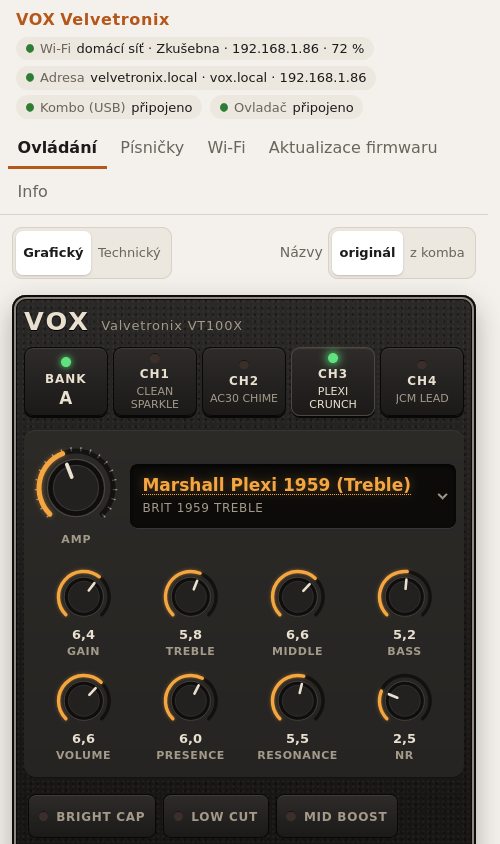
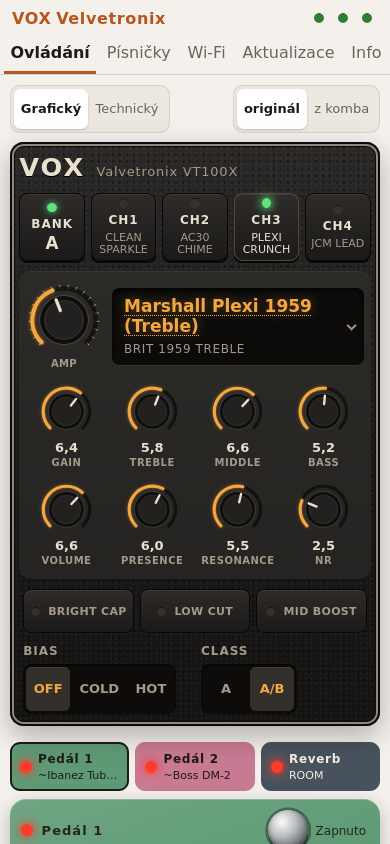
feat(web): phone layout, one pedal at a time behind tabs, 0.4.7
Under 700 px: brand and status dots in one line, tabs in one
scrollable line, compact amp panel with the three latches in one row,
pedals behind Pedál 1 / Pedál 2 / Reverb tabs that show on/off and the
type, footswitch beside the slot name, stacked save form. The graphic
view on a 390 px phone is 1426 px tall instead of 2608.

diff --git a/web/src/styles.css b/web/src/styles.css
@@ -668,6 +668,67 @@ details summary { cursor: pointer; color: var(--accent); margin-top: 0.5rem; }
   .knobrow { grid-template-columns: repeat(8, minmax(0, 1fr)); }
 }
 
+/* Pedal tabs exist for phones only. */
+.pedal-tabs { display: none; }
+
+/* --- phone (under 700 px): short header, one pedal at a time, compact panel --- */
+@media (max-width: 699px) {
+  .top { display: flex; align-items: center; justify-content: space-between; gap: 0.5rem; padding: 0.4rem 0.75rem 0.25rem; padding-top: max(0.4rem, env(safe-area-inset-top)); }
+  .brand { margin: 0; }
+  .top .statusbar { display: flex; flex-direction: column; align-items: flex-end; min-width: 0; }
+  .top .chips { flex-wrap: nowrap; gap: 0.15rem; }
+  .top .chip-value, .top .chip-addr, .top .chip-more { display: none; }
+  .top .chip-title { position: absolute; width: 1px; height: 1px; overflow: hidden; clip-path: inset(50%); }
+  .top .chip { padding: 0.35rem; background: transparent; }
+  .top .dot { width: 0.65rem; height: 0.65rem; }
+  .tabs { flex-wrap: nowrap; overflow-x: auto; scrollbar-width: none; padding: 0 0.25rem; }
+  .tab { padding: 0.45rem 0.4rem; }
+  .tab-more { display: none; }
+  main { padding: 0.6rem 0.6rem 1rem; }
+  .screen { gap: 0.6rem; }
+
+  .screen-control .toolbar .seg-label { position: absolute; width: 1px; height: 1px; overflow: hidden; clip-path: inset(50%); }
+  .toolbar .seg-btn { min-height: 2.5rem; }
+
+  .amp-panel { padding: 0.75rem 0.6rem 0.8rem; }
+  .panel-body { margin-top: 0.6rem; padding: 0.6rem 0.4rem; gap: 0.6rem; }
+  .knob { --k: 3.3rem; }
+  .knob-lg { --k: 4.5rem; }
+  .knob-sm { --k: 2.9rem; }
+  /* The three latches in one row, BIAS and CLASS in the next. */
+  .valve { margin-top: 0.6rem; gap: 0.5rem 0.75rem; }
+  .valve .latches { display: grid; grid-template-columns: repeat(3, minmax(0, 1fr)); gap: 0.35rem; }
+  .valve .latch { justify-content: center; padding: 0.3rem 0.35rem; font-size: 0.6875rem; letter-spacing: 0.03em; white-space: nowrap; }
+
+  .pedal-tabs { display: grid; grid-template-columns: repeat(3, minmax(0, 1fr)); gap: 0.35rem; }
+  .pedal-tab {
+    --enc: #4a4743; --print: #f4ede0;
+    display: grid; grid-template-columns: auto 1fr; align-items: center; column-gap: 0.4rem;
+    min-height: 3rem; padding: 0.35rem 0.5rem; text-align: left;
+    border: 2px solid transparent; border-radius: 10px;
+    background: var(--enc); color: var(--print); font-family: var(--p-font);
+  }
+  .pedal-tab.ink-dark { --print: #1d1a16; }
+  .pedal-tab[aria-selected="true"] { border-color: var(--text); }
+  .pedal-tab .stomp-led { grid-row: span 2; }
+  .pedal-tab-name { font-size: 0.75rem; font-weight: 700; letter-spacing: 0.06em; }
+  .pedal-tab-type { font-family: system-ui, sans-serif; font-size: 0.6875rem; overflow: hidden; text-overflow: ellipsis; white-space: nowrap; }
+  .pedalboard { gap: 0.5rem; }
+  .pedalboard .stomp:not(.stomp-picked) { display: none; }
+  .stomp { gap: 0.5rem; padding: 0.6rem 0.7rem 0.75rem; }
+  .stomp-type { min-height: 2.9rem; }
+  .stomp-knobs { min-height: 0; gap: 0.2rem; }
+  /* The footswitch sits beside the slot name. */
+  .stomp-top { min-height: 2.75rem; padding-right: 7.5rem; }
+  .footswitch { position: absolute; top: 0.6rem; right: 0.7rem; grid-auto-flow: column; align-items: center; gap: 0.45rem; min-height: 2.75rem; padding: 0 0.2rem; }
+  .fs-cap { width: 2.5rem; height: 2.5rem; box-shadow: 0 0 0 3px rgb(0 0 0 / 0.35), 0 3px 0 rgb(0 0 0 / 0.45), inset 0 -2px 4px rgb(0 0 0 / 0.35); }
+
+  .save { padding: 0.75rem; }
+  .save h2 { margin: 0 0 0.25rem; font-size: 1.05rem; }
+  .save .row, .save .row:not(.slider) { grid-template-columns: 1fr; gap: 0.2rem; margin: 0.4rem 0; }
+  .save .primary { width: 100%; margin-top: 0.25rem; }
+}
+
 @media (prefers-reduced-motion: reduce) {
   .stomp, .fs-cap { transition: none; }
 }

diff --git a/web/src/ui/graphic.ts b/web/src/ui/graphic.ts
@@ -239,6 +239,10 @@ export function createGraphic(ctx: Ctx, edits: Edits): View {
     const params = h("div", { class: "stomp-knobs" });
     const fsLabel = h("span", { class: "fs-label" });
     const footswitch = h("button", { type: "button", class: "footswitch" }, h("span", { class: "fs-cap", "aria-hidden": "true" }), fsLabel);
+    // Phone: one pedal at a time, picked by these tabs (they also show on/off and the type).
+    const tabLed = h("span", { class: "stomp-led", "aria-hidden": "true" });
+    const tabType = h("span", { class: "pedal-tab-type" });
+    const tab = h("button", { type: "button", class: "pedal-tab", role: "tab" }, tabLed, h("span", { class: "pedal-tab-name" }, title), tabType);
     const box = h(
       "section",
       { class: "stomp", "aria-label": title },
@@ -252,6 +256,7 @@ export function createGraphic(ctx: Ctx, edits: Edits): View {
     const showOn = (v: boolean) => {
       isOn = v;
       box.classList.toggle("stomp-on", v);
+      tab.classList.toggle("stomp-on", v);
       footswitch.setAttribute("aria-pressed", String(v));
       setText(fsLabel, v ? "Zapnuto" : "Vypnuto");
       footswitch.setAttribute("aria-label", `${title}: ${v ? "zapnuto" : "vypnuto"}`);
@@ -276,6 +281,9 @@ export function createGraphic(ctx: Ctx, edits: Edits): View {
       const color = ENCLOSURE[slot][t] ?? "#4a4743";
       box.style.setProperty("--enc", color);
       box.classList.toggle("ink-dark", darkInk(color));
+      setText(tabType, main.text);
+      tab.style.setProperty("--enc", color);
+      tab.classList.toggle("ink-dark", darkInk(color));
       if (typeSel.value !== String(t)) typeSel.value = String(t);
     };
     typeSel.addEventListener("change", () => {
@@ -310,6 +318,7 @@ export function createGraphic(ctx: Ctx, edits: Edits): View {
 
     return {
       box,
+      tab,
       knobs: () => paramKnobs,
       set(p: Program) {
         const type = effectType(p, slot);
@@ -328,7 +337,15 @@ export function createGraphic(ctx: Ctx, edits: Edits): View {
       },
     };
   });
-  const board = h("div", { class: "pedalboard" }, ...stomps.map((s) => s.box));
+  const pick = (i: number) =>
+    stomps.forEach((s, j) => {
+      s.box.classList.toggle("stomp-picked", i === j);
+      s.tab.setAttribute("aria-selected", String(i === j));
+    });
+  stomps.forEach((s, i) => s.tab.addEventListener("click", () => pick(i)));
+  pick(0);
+  const pedalTabs = h("div", { class: "pedal-tabs", role: "tablist", "aria-label": "Pedály" }, ...stomps.map((s) => s.tab));
+  const board = h("div", { class: "pedalboard" }, pedalTabs, ...stomps.map((s) => s.box));
 
   const el = h("div", { class: "rig" }, panel, board);
   let namesShown = "";

diff --git a/README.md b/README.md
@@ -27,8 +27,9 @@ aplikace VOX Tone Room.
   ostatní, i co se otočí přímo na kombu.
 - **Aplikace na ploše iPadu.** V Safari Sdílet → Přidat na plochu: vlastní ikona, celá obrazovka
   bez lišt Safari (viz [Instalace na plochu](#instalace-na-plochu-ipadu-nebo-telefonu)).
-- **Rozložení pro tablet.** Na iPadu 11" se celý panel s pedály vejde na jednu obrazovku na šířku
-  i na výšku. Na telefonu jsou ovládací prvky pod sebou.
+- **Rozložení pro tablet a telefon.** Na iPadu 11" se celý panel s pedály vejde na jednu obrazovku
+  na šířku i na výšku. Na telefonu je krátká hlavička (název, tečky stavu, záložky) a pedály se
+  přepínají záložkami Pedál 1 / Pedál 2 / Reverb, které ukazují i zapnutí a typ efektu.
 - **Bez zásahu do paměti komba, dokud to nechceš.** Pi nepustí zápis do paměti komba (`4C`, `11`),
   pokud zpráva není označená jako výslovné uložení. Start, připojení ani aktualizace nic
   nepřepisují.
